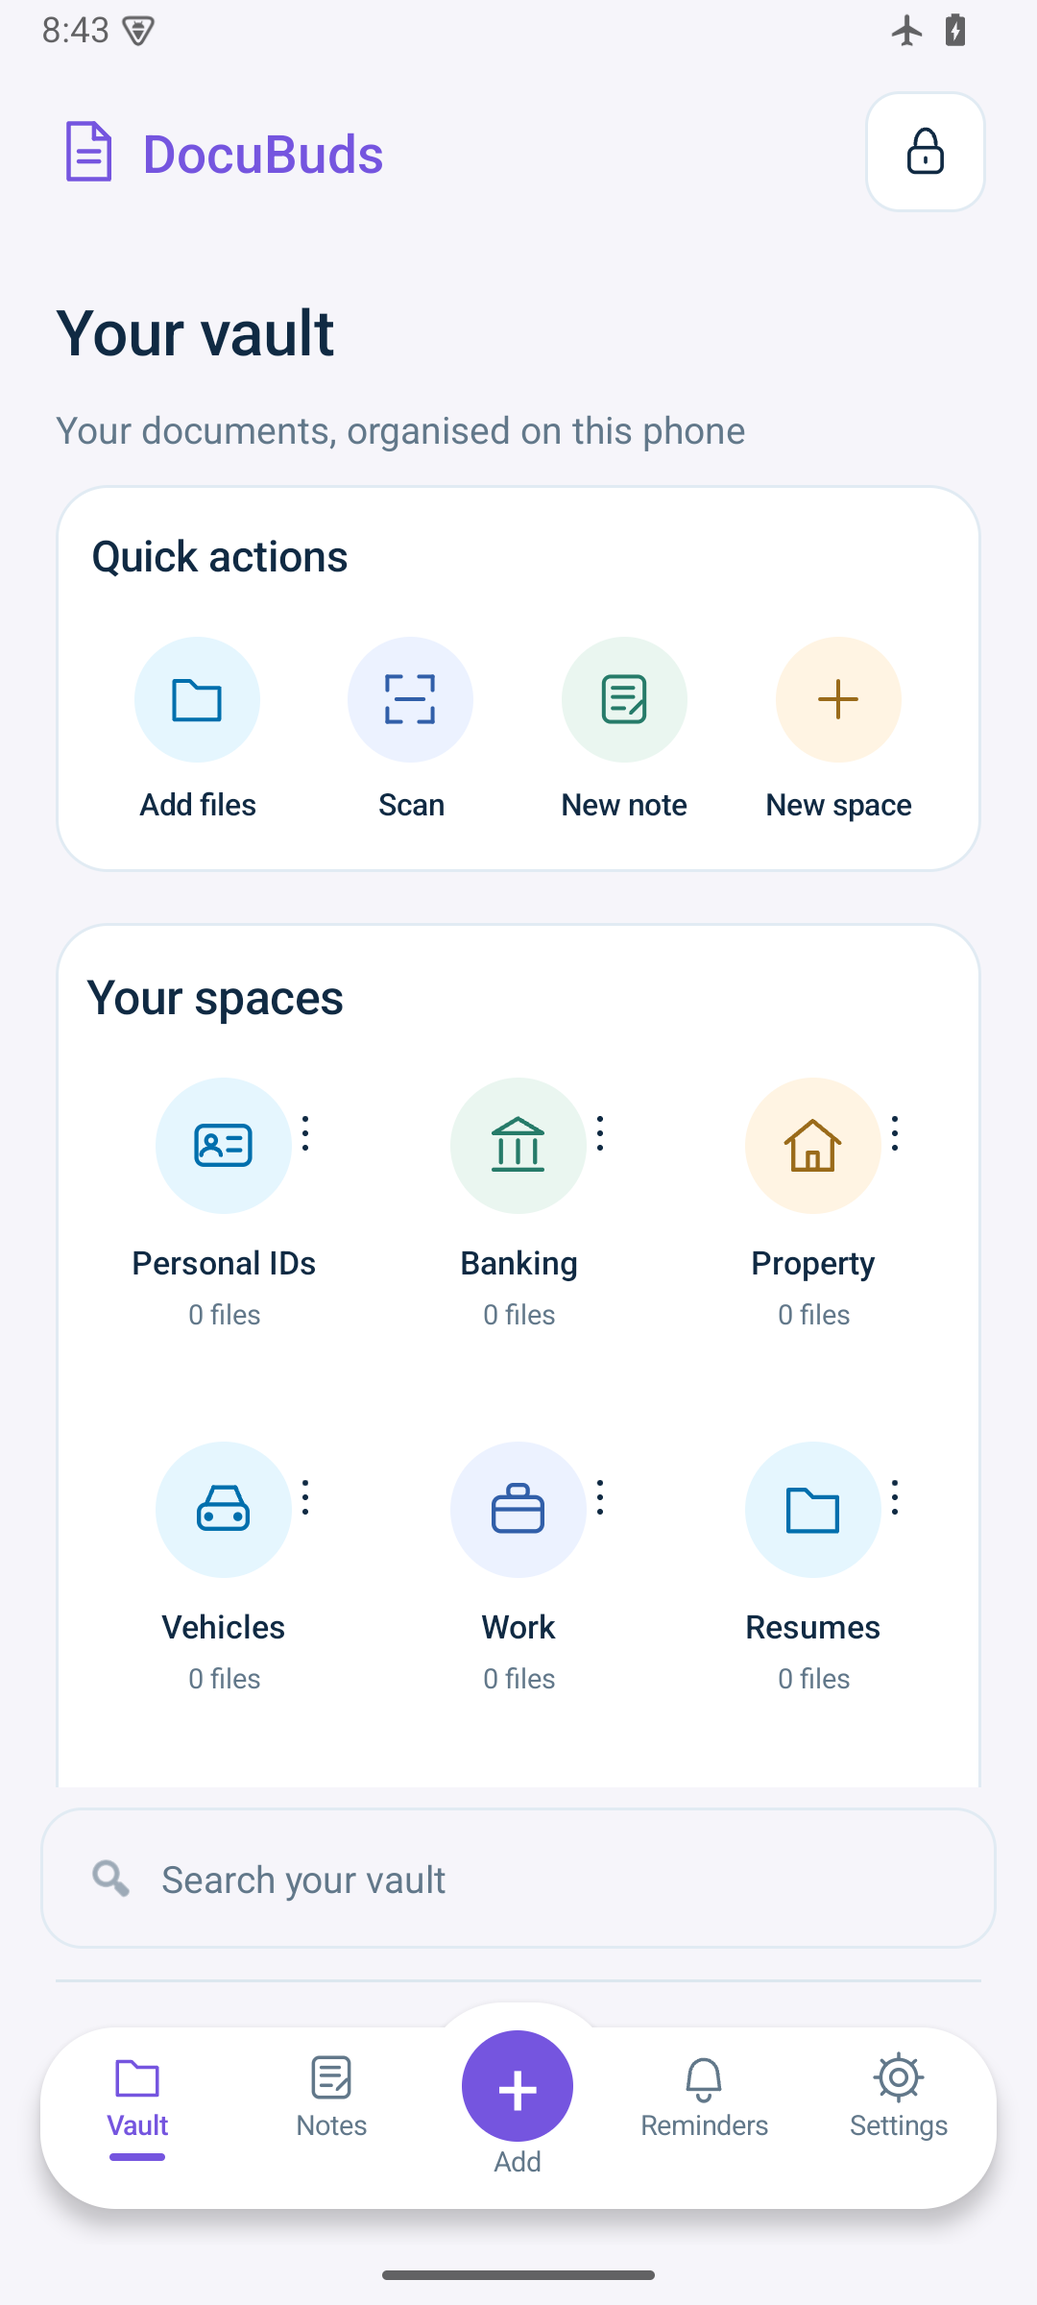
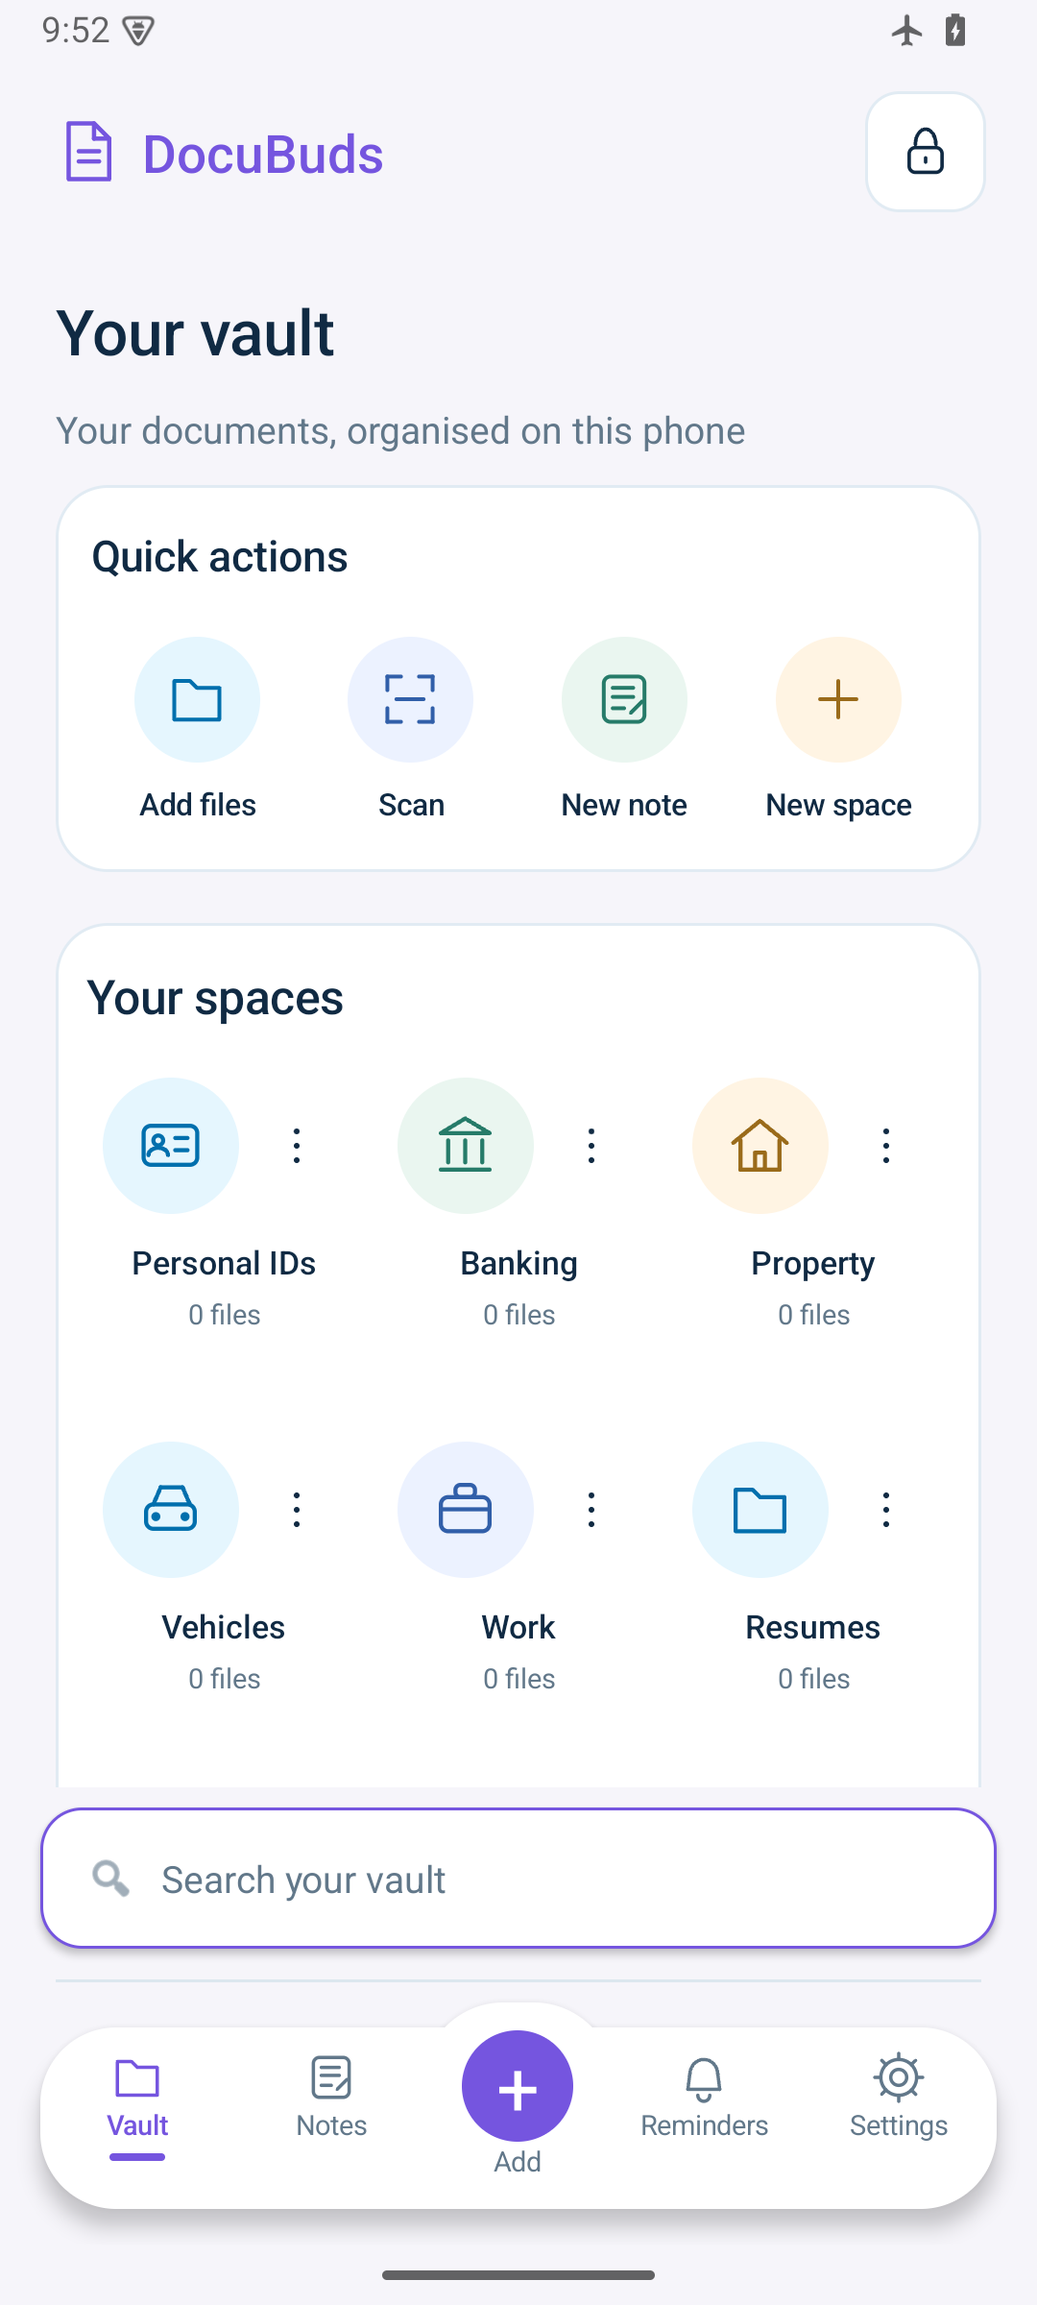
Improve search emphasis, space menus and flexible note cards

diff --git a/website/index.html b/website/index.html
@@ -1,12 +1,12 @@
 <!doctype html>
 <html lang="en"><head><meta charset="utf-8"><meta name="viewport" content="width=device-width,initial-scale=1"><meta name="theme-color" content="#7555df"><meta name="description" content="Meet DocuBuds, a free Android vault for documents, passwords and notes. Encrypted on your phone. No account, ads or cloud backup."><title>DocuBuds — A little home for your important things</title><link rel="stylesheet" href="style.css"></head>
-<body><header><a class="brand" href="#"><span class="logo" aria-hidden="true">▤</span>DocuBuds<span class="android">for Android</span></a><nav aria-label="Main navigation"><a href="#inside">What's inside</a><a href="#privacy">Privacy</a><a href="#support">Buy a little thank-you</a><a class="button small" href="https://github.com/vijayxprty/secured-documents-app/releases/download/v1.2.1/DocuBuds-1.2.1.apk">Get the app</a></nav></header>
-<main><section class="hero"><div class="hero-copy"><span class="eyebrow"><span aria-hidden="true">✦</span> Your phone. Your little world.</span><h1>Important things.<br>A happier home.</h1><p class="lead">Your passport, property papers, passwords and little notes. Together at last, in a personal vault that stays on your phone.</p><div class="actions"><a class="button" href="https://github.com/vijayxprty/secured-documents-app/releases/download/v1.2.1/DocuBuds-1.2.1.apk">Download DocuBuds <span class="download" aria-hidden="true">↓</span></a><a class="text-link" href="#inside">Take a peek inside</a></div><p class="download-meta">Android 11+ · v1.2.1 · Free, always ad-free</p><div class="promise"><span>⌁ No account</span><span>▧ On-phone encryption</span><span>☁ No cloud backup</span></div></div><div class="hero-art"><div class="orbit"></div><span class="sticker sticker-one">A place for every paper.</span><div class="phone"><img src="assets/vault.png" alt="Actual DocuBuds vault screen with named spaces, sticky search and floating purple navigation" width="1080" height="2400"></div><div class="folder folder-one"><span>Home sweet home</span><b>Home papers</b><i aria-hidden="true">⌂</i></div><div class="folder folder-two"><span>Little ideas, safely kept</span><b>My notes</b><i aria-hidden="true">✎</i></div><span class="spark spark-one" aria-hidden="true">✳</span><span class="spark spark-two" aria-hidden="true">✦</span></div></section>
+<body><header><a class="brand" href="#"><span class="logo" aria-hidden="true">▤</span>DocuBuds<span class="android">for Android</span></a><nav aria-label="Main navigation"><a href="#inside">What's inside</a><a href="#privacy">Privacy</a><a href="#support">Buy a little thank-you</a><a class="button small" href="https://github.com/vijayxprty/secured-documents-app/releases/download/v1.2.2/DocuBuds-1.2.2.apk">Get the app</a></nav></header>
+<main><section class="hero"><div class="hero-copy"><span class="eyebrow"><span aria-hidden="true">✦</span> Your phone. Your little world.</span><h1>Important things.<br>A happier home.</h1><p class="lead">Your passport, property papers, passwords and little notes. Together at last, in a personal vault that stays on your phone.</p><div class="actions"><a class="button" href="https://github.com/vijayxprty/secured-documents-app/releases/download/v1.2.2/DocuBuds-1.2.2.apk">Download DocuBuds <span class="download" aria-hidden="true">↓</span></a><a class="text-link" href="#inside">Take a peek inside</a></div><p class="download-meta">Android 11+ · v1.2.2 · Free, always ad-free</p><div class="promise"><span>⌁ No account</span><span>▧ On-phone encryption</span><span>☁ No cloud backup</span></div></div><div class="hero-art"><div class="orbit"></div><span class="sticker sticker-one">A place for every paper.</span><div class="phone"><img src="assets/vault.png" alt="Actual DocuBuds vault screen with named spaces, sticky search and floating purple navigation" width="1080" height="2400"></div><div class="folder folder-one"><span>Home sweet home</span><b>Home papers</b><i aria-hidden="true">⌂</i></div><div class="folder folder-two"><span>Little ideas, safely kept</span><b>My notes</b><i aria-hidden="true">✎</i></div><span class="spark spark-one" aria-hidden="true">✳</span><span class="spark spark-two" aria-hidden="true">✦</span></div></section>
 <div class="ribbon"><span>Less hunting for files.</span><span aria-hidden="true">✳</span><span>More getting on with life.</span><span aria-hidden="true">✳</span><span>Meet your document buds.</span></div>
 <section id="inside" class="inside section"><div class="section-heading"><span class="eyebrow">A little order feels lovely</span><h2>All your important stuff.<br>Room to breathe.</h2><p>Give everything a space of its own. Name it your way, nest folders, and find the right thing with search that stays within reach.</p></div><div class="feature-grid"><article class="feature lavender"><span class="feature-icon" aria-hidden="true">▧</span><h3>Your identity, organised</h3><p>Keep Aadhaar, passport, driving licence and other personal IDs together, with documents and structured details.</p><div class="mini-tags"><span>Passport</span><span>Personal IDs</span></div></article><article class="feature mint"><span class="feature-icon" aria-hidden="true">⌂</span><h3>A space for every place</h3><p>Home, shop, farmhouse or vehicle: create your own named spaces for ownership papers, agreements, tax receipts and insurance.</p><div class="mini-tags"><span>Home documents</span><span>My car</span></div></article><article class="feature peach"><span class="feature-icon" aria-hidden="true">▱</span><h3>Your whole work journey</h3><p>Group documents by company. Keep offer and joining letters, payslips, experience letters, certificates and resume versions within easy reach.</p><div class="mini-tags"><span>Work</span><span>Resumes</span></div></article><article class="feature white"><span class="feature-icon" aria-hidden="true">✎</span><h3>Notes, without the loose ends</h3><p>Write titled notes right in the app. Add formatting and checklists, pick a note colour, and let encrypted autosave keep up with your thoughts.</p></article><article class="feature white"><span class="feature-icon" aria-hidden="true">⌑</span><h3>Bring your papers along</h3><p>Import files, capture pages, read documents and use bundled English/Hindi text recognition offline. Crop image copies or turn images into PDFs.</p></article><article class="feature white"><span class="feature-icon" aria-hidden="true">⌕</span><h3>The useful little extras</h3><p>Keep banking details and passwords, set local reminders, search your vault, and export or share a file when you choose.</p></article></div></section>
 <section id="privacy" class="privacy section"><div class="privacy-art"><div class="phone phone-lock"><img src="assets/lock.png" alt="DocuBuds centred lock screen with phone authentication and one-minute inactivity lock" width="1080" height="2400" loading="lazy"></div><span class="privacy-stamp">Personal to each phone.<br>By design.</span></div><div class="privacy-copy"><span class="eyebrow">Your vault has boundaries</span><h2>Share the app.<br>Keep your world yours.</h2><p class="lead">Passing someone the APK gives them their own installation. It does not give them your vault, documents or encryption keys.</p><ul class="privacy-list"><li><b>Encrypted on the phone</b><span>Each vault has its own encryption key. Sensitive records, attachments, notes and document text are encrypted at rest.</span></li><li><b>You choose how to unlock</b><span>Use phone authentication, or add an app PIN or pattern. Phone unlock remains an authorised alternative. The app locks after one minute of inactivity.</span></li><li><b>Offline means offline</b><span>No app internet permission, login, analytics, advertising or cloud sync. Core features work without a connection.</span></li></ul><div class="honest-note"><b>A small but important heads-up</b><p>There is no backup, recovery key or developer reset. Losing your phone or its keys, uninstalling, or clearing app data can permanently lose your vault. Screenshots are allowed; exported or shared copies are outside vault protection. An unlocked or compromised phone can expose data. DocuBuds has not had an independent security audit.</p></div></div></section>
 <section id="start" class="start section"><div class="section-heading"><span class="eyebrow">Make yourself at home</span><h2>A few taps. Your own DocuBuds.</h2></div><div class="steps"><article><span class="step-symbol" aria-hidden="true">↓</span><h3>Get the Android APK</h3><p>Download the signed release from this page or GitHub. Allow installation from the source you use, only when Android asks.</p></article><article><span class="step-symbol" aria-hidden="true">⌑</span><h3>Unlock and settle in</h3><p>Set up phone authentication, then make your spaces. No email address, registration or account to create.</p></article><article><span class="step-symbol" aria-hidden="true">♡</span><h3>Bring your important things</h3><p>Add documents and notes at your own pace. Keep the original copies of anything you cannot afford to lose.</p></article></div><div class="install-note">Updating? Install the new APK over the existing app. <strong>Do not uninstall or clear app storage.</strong></div></section>
 <section class="faq section"><div class="section-heading"><span class="eyebrow">Good things to know</span><h2>A few friendly answers.</h2></div><div class="questions"><details><summary>Can someone else's DocuBuds open my files?</summary><p>No shared vault or universal developer key is included in the APK. Each installation creates its own vault keys. Someone with access to your unlocked phone or authentication can still access your data.</p></details><details><summary>Can I export and share my documents?</summary><p>Yes. Export local copies or use Android's share sheet. Original imported file bytes are preserved for export and sharing; the receiving app can compress, store or transmit them. Camera captures and edited copies have their own image quality limits.</p></details><details><summary>What if I lose my phone or forget my app PIN?</summary><p>Phone authentication remains an alternative to the app PIN or pattern. There is no remote reset or vault recovery service. If the phone or the required device keys are lost, your vault cannot be recovered.</p></details><details><summary>Is it really free? Are there ads?</summary><p>DocuBuds is free and ad-free. Donations are optional and do not unlock features. The app does not include a paid tier.</p></details><details><summary>Is this app independently security-audited?</summary><p>No. Release builds, lint, unit tests and selected emulator scenarios have been checked. That does not replace an independent security review or testing across physical phones.</p></details><details><summary>Where is the source code?</summary><p>The source is available in the public <a href="https://github.com/vijayxprty/secured-documents-app">secured-documents-app repository</a>. Signing keys, passwords and personal vault records are excluded. APK checksums are included with each release.</p></details></div></section>
 <section id="support" class="support section"><div><span class="eyebrow">A little love goes a long way</span><h2>Like your new<br>document buddy?</h2><p>DocuBuds is made with care and shared for free. If it brings a little order to your day, you can send an optional thank-you to the developer.</p><div class="actions"><a class="button" href="upi://pay?pa=jaynishad2010%40okhdfcbank&amp;pn=Vijay%20Kumar&amp;aid=uGICAgIDQqveaLw">Donate with a UPI app</a><button id="copy-upi" class="copy-button" type="button">Copy UPI ID</button></div><p class="upi-id">jaynishad2010@okhdfcbank</p><p id="copy-status" class="copy-status" role="status" aria-live="polite"></p><p class="support-small">Entirely optional. Every feature stays free.<br>UPI opens an external payment app. Confirm the recipient before paying.</p></div><figure class="qr-card"><span class="heart" aria-hidden="true">♡</span><img src="assets/donate-qr.png" alt="Original developer donation UPI QR code" width="1140" height="1140" loading="lazy"><figcaption>Scan a little thank-you<br><span>Payment recipient: Vijay Kumar</span></figcaption></figure></section>
-<section class="final-cta"><span aria-hidden="true">✦</span><h2>Your papers deserve<br>a place to belong.</h2><a class="button" href="https://github.com/vijayxprty/secured-documents-app/releases/download/v1.2.1/DocuBuds-1.2.1.apk">Get DocuBuds for Android</a><p>Free · No account · On your phone</p></section></main>
-<footer><a class="brand" href="#"><span class="logo" aria-hidden="true">▤</span>DocuBuds</a><p>Made with love <span class="love">♥</span> by <b>Vijay Mamta Sahani</b></p><div><a href="https://github.com/vijayxprty/secured-documents-app">GitHub source</a><a href="https://github.com/vijayxprty/secured-documents-app/releases/tag/v1.2.1">Release & checksum</a><a href="https://www.instagram.com/momentswithvms/">@momentswithvms</a></div><small>This is the app's information website. It does not access, upload or unlock your vault.</small></footer><script src="app.js"></script></body></html>
+<section class="final-cta"><span aria-hidden="true">✦</span><h2>Your papers deserve<br>a place to belong.</h2><a class="button" href="https://github.com/vijayxprty/secured-documents-app/releases/download/v1.2.2/DocuBuds-1.2.2.apk">Get DocuBuds for Android</a><p>Free · No account · On your phone</p></section></main>
+<footer><a class="brand" href="#"><span class="logo" aria-hidden="true">▤</span>DocuBuds</a><p>Made with love <span class="love">♥</span> by <b>Vijay Mamta Sahani</b></p><div><a href="https://github.com/vijayxprty/secured-documents-app">GitHub source</a><a href="https://github.com/vijayxprty/secured-documents-app/releases/tag/v1.2.2">Release & checksum</a><a href="https://www.instagram.com/momentswithvms/">@momentswithvms</a></div><small>This is the app's information website. It does not access, upload or unlock your vault.</small></footer><script src="app.js"></script></body></html>

diff --git a/app/src/main/java/com/docubuds/app/MainActivity.java b/app/src/main/java/com/docubuds/app/MainActivity.java
@@ -404,7 +404,10 @@ public final class MainActivity extends Activity {
     search.setCompoundDrawables(searchIcon, null, null, null);
     search.setGravity(Gravity.CENTER_VERTICAL);
     search.setPadding(dp(18), 0, dp(12), 0);
-    search.setBackground(border(bg, 16));
+    GradientDrawable searchBackground = shape(settingsDark ? card : Color.WHITE, 16);
+    searchBackground.setStroke(dp(1), accent);
+    search.setBackground(searchBackground);
+    search.setElevation(dp(2));
     search.setMinHeight(dp(56));
     search.setContentDescription("Search your vault");
     search.setOnClickListener(v -> openSearch());
@@ -3350,12 +3353,12 @@ public final class MainActivity extends Activity {
         body,
         item(
             "About DocuBuds",
-            "Version 1.2.1 · Free and ad-free",
+            "Version 1.2.2 · Free and ad-free",
             "id",
             accent,
             () ->
                 info(
-                    "DocuBuds 1.2.1",
+                    "DocuBuds 1.2.2",
                     "Your personal document vault. Completely free. No ads, no accounts, no"
                         + " subscriptions, no cloud backups.\n\n"
                         + "Made with love ♥ by Vijay Mamta Sahani (@momentswithvms)\n\n"
@@ -3637,7 +3640,7 @@ public final class MainActivity extends Activity {
     donation.setBackgroundColor(card);
     donation.setContentDescription("Donate to developer");
     donation.setOnClickListener(v -> donate());
-    root.addView(donation, root.getChildCount() - 1, new LinearLayout.LayoutParams(-1, dp(48)));
+    body.addView(donation, new LinearLayout.LayoutParams(-1, dp(48)));
   }
 
   private void donate() {
@@ -3862,14 +3865,18 @@ public final class MainActivity extends Activity {
     badge.addView(
         new Icons(this, iconFor(title), badgeInk(spaceTone(title))),
         new FrameLayout.LayoutParams(dp(27), dp(27), Gravity.CENTER));
-    FrameLayout.LayoutParams bp = new FrameLayout.LayoutParams(dp(54), dp(54), Gravity.CENTER);
+    FrameLayout.LayoutParams bp =
+        new FrameLayout.LayoutParams(dp(54), dp(54), Gravity.START | Gravity.CENTER_VERTICAL);
     top.addView(badge, bp);
     View more = iconButton("more", "Options for " + title, () -> spaceMenu(id));
     more.setBackgroundColor(Color.TRANSPARENT);
     FrameLayout.LayoutParams mp =
-        new FrameLayout.LayoutParams(dp(38), dp(48), Gravity.END | Gravity.TOP);
+        new FrameLayout.LayoutParams(dp(38), dp(48), Gravity.END | Gravity.CENTER_VERTICAL);
+    mp.setMarginStart(dp(4));
     top.addView(more, mp);
-    tile.addView(top, new LinearLayout.LayoutParams(-1, dp(58)));
+    LinearLayout.LayoutParams topParams = new LinearLayout.LayoutParams(dp(96), dp(58));
+    topParams.gravity = Gravity.CENTER_HORIZONTAL;
+    tile.addView(top, topParams);
     gap(tile, 8);
     TextView label = text(title, compact ? 13 : 15, ink, true);
     label.setGravity(Gravity.CENTER);
@@ -4051,9 +4058,21 @@ public final class MainActivity extends Activity {
         add(body, pair);
         gap(body, 12);
       }
-      LinearLayout tile = col();
-      tile.setMinimumHeight(dp(186));
-      tile.setPadding(dp(16), dp(16), dp(16), dp(16));
+      LinearLayout tile =
+          new LinearLayout(this) {
+            @Override
+            protected void onMeasure(int widthSpec, int heightSpec) {
+              super.onMeasure(widthSpec, heightSpec);
+              int excess = getMeasuredHeight() - dp(150);
+              if (excess > 0 && getChildCount() > 2 && getChildAt(2) instanceof TextView) {
+                TextView snippet = (TextView) getChildAt(2);
+                snippet.setMaxHeight(Math.max(0, snippet.getMeasuredHeight() - excess));
+                super.onMeasure(widthSpec, heightSpec);
+              }
+            }
+          };
+      tile.setOrientation(LinearLayout.VERTICAL);
+      tile.setPadding(dp(14), dp(12), dp(14), dp(12));
       tile.setBackground(shape(noteColour(note.optInt("noteColor")), 20));
       TextView title = text(note.optString("title", "Untitled note"), 18, ink, true);
       title.setMaxLines(2);

diff --git a/README.md b/README.md
@@ -4,7 +4,7 @@ Personal Android document and notes vault. Stores encrypted data on each user's 
 
 ## Current release
 
-**1.2.1** · Android 11+ · Native Java Android app.
+**1.2.2** · Android 11+ · Native Java Android app.
 
 The interface uses a restrained purple palette, grouped quick actions, sticky search and a detached white navigation pill. The lock screen is centred with a smaller folder illustration. Purple, blue, teal and muted amber appear in icon badges while the main interface stays restrained.
 
@@ -21,7 +21,7 @@ The interface uses a restrained purple palette, grouped quick actions, sticky se
 
 ## Security and loss of access
 
-**Not independently security-audited.** Implementation details and verification limits are in [the security design](docs/SECURITY_DESIGN.txt) and [release checks](docs/VERIFICATION_1.2.1.txt).
+**Not independently security-audited.** Implementation details and verification limits are in [the security design](docs/SECURITY_DESIGN.txt) and [release checks](docs/VERIFICATION_1.2.2.txt).
 
 Each installation creates its own keys. Sharing an APK does not share a user's vault. Phone unlock remains an authorised alternative even when an app PIN/pattern is enabled. Screenshots and exported/shared copies leave encrypted-storage protection.
 
